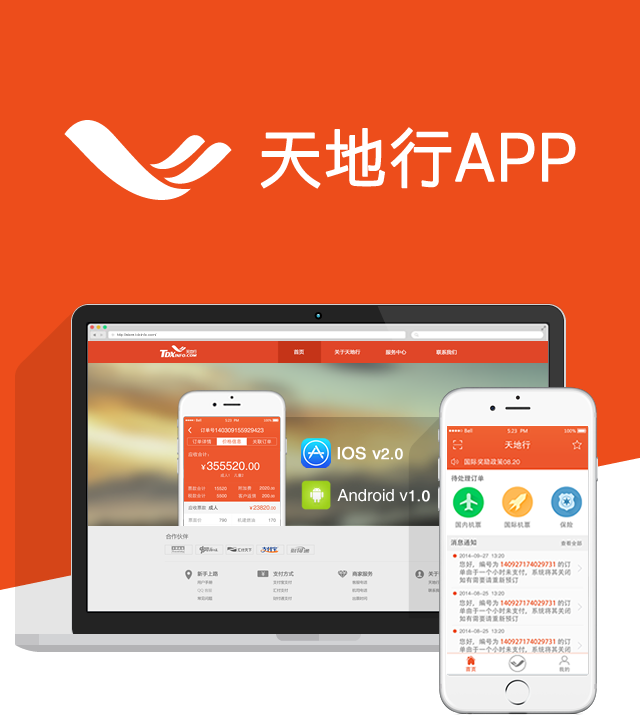
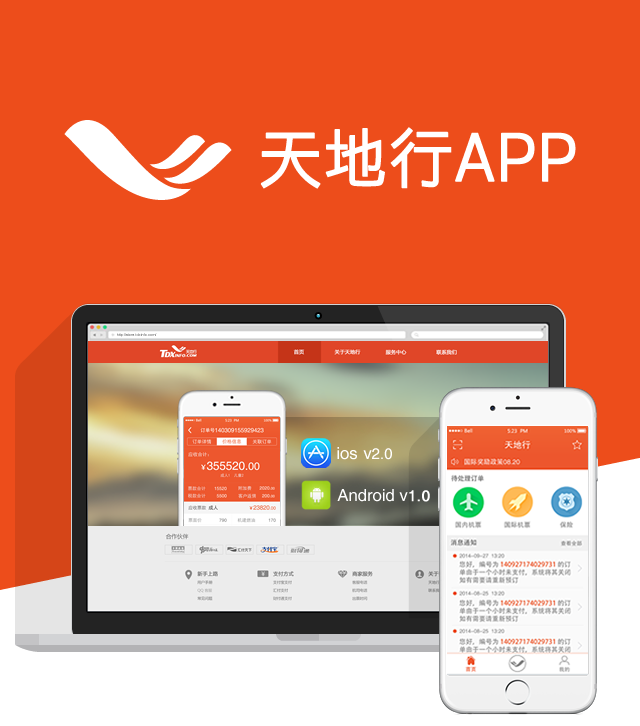
小改动

diff --git a/static/special/source/app_promotion.html b/static/special/source/app_promotion.html
@@ -48,7 +48,7 @@
             <span class="dl-text-2">v1.0</span>
             <span class="dl-text-3">下载</span>
           </a>
-          <div class="gray-font">IOS全新版本 敬请期待</div>
+          <div class="gray-font">iOS全新版本 敬请期待</div>
         </div>
         <div class="section-gray-bg">
           <div class="section section-block-2">
@@ -99,15 +99,14 @@
         </div>
         <div class="section section-block-6">
           <img class="large-logo" src="../images/mobile/large_logo.png" />
-          <div class="slogen">天地行App<em>·</em>让生意更自由</div>
-          <!--href="http://sc1.tdxinfo.com/images/store/app/android/tdx.apk"-->
-          <a class="download-btn" href="#">
+          <div class="slogen">天地行App 让生意更自由</div>
+          <a class="download-btn" href="http://sc1.tdxinfo.com/images/store/app/android/tdx.apk">
             <span class="dl-text-1">Android</span>
             <span class="dl-text-2">v1.0</span>
             <span class="dl-text-3">下载</span>
           </a>
-          <div class="light-red-font">IOS全新版本 敬请期待</div>
-          <div class="copyright">Copyright © 2014天地行 All Rights Reserved. 沪ICP备 08101503号</div>
+          <div class="light-red-font">iOS全新版本 敬请期待</div>
+          <div class="copyright">Copyright © 2014天地行 All Rights Reserved.<br>沪ICP备 08101503号</div>
         </div>
     </div>
   </body>

diff --git a/static/css/mobile/store/appShare.css b/static/css/mobile/store/appShare.css
@@ -2,6 +2,10 @@ img {
 	width: 100%;
 }
 
+body {
+	margin: 0;
+}
+
 .section-white-bg {
 	background-color: #fff;
 }
